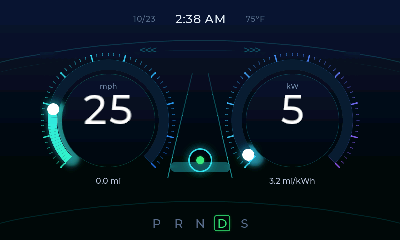
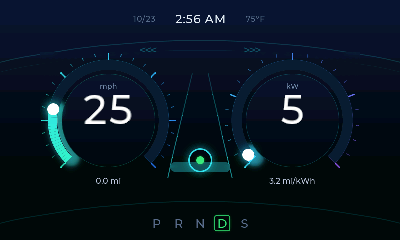
car_cluster: tick marks at round values (every 5 mph and 20, every 10 kW and 50)

diff --git a/lib/examples/car_cluster/ring.py b/lib/examples/car_cluster/ring.py
@@ -93,8 +93,8 @@ class Ring:
         sweep=270,
         unit="",
         caption="",
-        ticks=54,
-        major_every=6,
+        minor=None,
+        major=None,
     ):
         self.size = size
         self.stops = stops
@@ -141,7 +141,13 @@ class Ring:
         self._buf = lv.draw_buf_create(size, size, lv.COLOR_FORMAT.ARGB8888, 0)
         self.canvas.set_draw_buf(self._buf)
         self.canvas.fill_bg(_color(0x000000), lv.OPA.TRANSP)
-        self._paint(track, ticks, major_every)
+        # Ticks sit at round values: one every ``minor`` units, a longer one
+        # every ``major``. Left unset, the dial gets ten major divisions.
+        if minor is None:
+            minor = self.vmax / 50.0
+        if major is None:
+            major = self.vmax / 10.0
+        self._paint(track, minor, major)
 
         # The cover: the empty part of the track, painted over the sweep.
         self.cover = lv.arc(self.obj)
@@ -216,7 +222,7 @@ class Ring:
 
     # -- art ----------------------------------------------------------------
 
-    def _paint(self, track, ticks, major_every):
+    def _paint(self, track, minor, major):
         layer = lv.layer_t()
         self.canvas.init_layer(layer)
         cx, cy, r = self.cx, self.cy, self.radius
@@ -263,14 +269,16 @@ class Ring:
         line.round_start = True
         line.round_end = True
         r_out = self.size // 2 - 2
+        ticks = int(round(self.vmax / minor))
+        per_major = max(1, int(round(major / minor)))
         for i in range(ticks + 1):
             t = i / ticks
             a = math.radians(self.start + self.sweep * t)
-            major = i % major_every == 0
-            length = max(8, self.size // 24) if major else max(4, self.size // 48)
-            line.width = 3 if major else 2
+            is_major = i % per_major == 0
+            length = max(8, self.size // 24) if is_major else max(4, self.size // 48)
+            line.width = 3 if is_major else 2
             line.color = _color(gradient_at(self.stops, t))
-            line.opa = 230 if major else 110
+            line.opa = 230 if is_major else 110
             line.p1 = lv.point_precise_t({"x": cx + math.cos(a) * r_out, "y": cy + math.sin(a) * r_out})
             line.p2 = lv.point_precise_t(
                 {"x": cx + math.cos(a) * (r_out - length), "y": cy + math.sin(a) * (r_out - length)}

diff --git a/lib/examples/car_cluster/cluster.py b/lib/examples/car_cluster/cluster.py
@@ -229,6 +229,8 @@ class Cluster:
             bg=BG,
             unit="mph",
             caption="0.0 mi",
+            minor=5,
+            major=20,
         )
         self.speed.set_pos(W * 27 // 100 - size // 2, cy - size // 2)
         self.power = Ring(
@@ -240,6 +242,8 @@ class Cluster:
             bg=BG,
             unit="kW",
             caption="3.7 mi/kWh",
+            minor=10,
+            major=50,
         )
         self.power.set_pos(W * 73 // 100 - size // 2, cy - size // 2)
 
